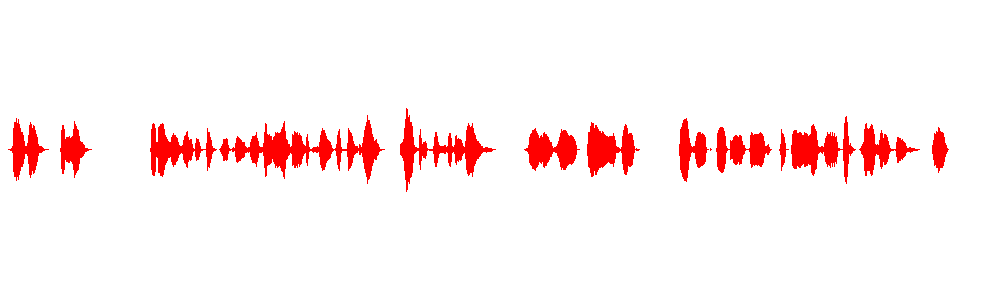
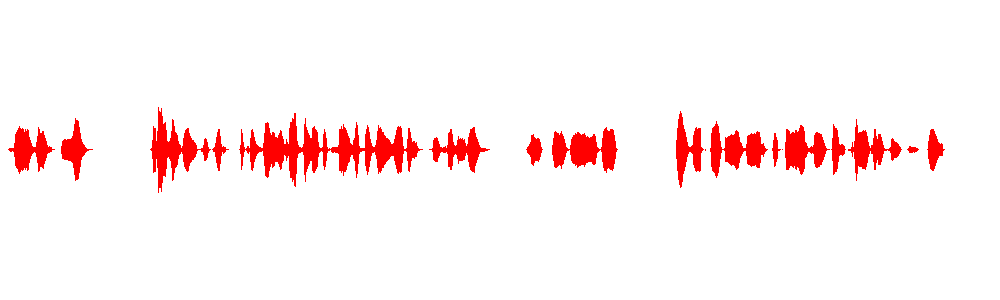
docs: record the GPU verification, evidence taken from the produced media
Adds a "Kiểm chứng trên GPU" section and refreshes `docs/verification/` so all
the evidence comes from the same run as the current commit.

The previous logs were from the parent commit; since the prompts.py fix landed
in between, the three smoke scripts (d5, d7, migration) were re-run on the exact
pushed commit and the frames/waveforms re-extracted from the new MP4. The box
source was shipped with `git archive HEAD`, so what ran is byte-for-byte what
was pushed — not a working copy.

The two PNG frames are pulled straight out of the produced MP4 with ffmpeg: the
frame at 11s shows the testsrc clock reading 11, which is what makes it evidence
that the video stream survived dubbing rather than an illustration of it. The
waveform pair shows the source and dubbed tracks segment-aligned.

RAW LOGS committed alongside so the numbers in the README can be checked
against the source text rather than taken on trust.

Changed region(s): [[0.527, 0.39, 0.961, 0.6], [0.155, 0.36, 0.496, 0.63], [0.0, 0.39, 0.093, 0.6]]

diff --git a/README.md b/README.md
@@ -74,6 +74,26 @@ python -m app.pipelines.dub_pipeline --selftest            # cần ffmpeg
 
 Smoke UI thật (bắt lỗi JS mà test Python không thấy): `python backend/scripts/ui_shot.py --check`
 
+## Kiểm chứng trên GPU (pipeline thật)
+
+CI chạy offline nên **không** chạm tới model. Pipeline thật được kiểm bằng các smoke script
+trên box GPU, chạy đúng mã của commit đã push:
+
+| Script | Nội dung | Kết quả |
+|---|---|---|
+| `scripts/d5_smoke.py` | lồng tiếng vi→en audio 2 người nói: STT + tách người nói → dịch → TTS → timing-fit → ffmpeg; kiểm lại bằng ASR vòng | ✅ 14.3s / nguồn 13.8s, 37 từ en, `p=1.00` |
+| `scripts/d7_smoke.py` | lồng tiếng **video**: MP4 vào → MP4 ra, giữ luồng hình, `background=source_low` | ✅ MP4 320×180 h264 + aac 48k, 13.7s, 37 từ en |
+| `scripts/migration_smoke.py` | DB **hình dạng cũ** → migrate, và `stage_translator()` phải trả `None` chứ không ném lỗi | ✅ 7/7 |
+
+Nhật ký thô: `docs/verification/*.log`. Bằng chứng hình ảnh lấy **trực tiếp từ MP4 đã tạo**
+(`ffmpeg` trích khung hình, không phải ảnh minh hoạ) — khung ở giây thứ 11 hiện đúng đồng hồ
+đếm của `testsrc`, tức luồng video sống sót qua bước lồng tiếng. Ảnh dạng sóng nguồn và bản
+đã lồng tiếng xếp đoạn khớp nhau, cho thấy timing-fit đặt đúng vị trí.
+
+`migration_smoke.py` canh đúng rủi ro mà Giai đoạn 3 mang lại: deployment **đang chạy** có DB
+chưa có bảng `stage_models`/`ai_providers`. Nếu `stage_translator()` ném lỗi ở đó thì cả
+pipeline dubbing chết — nên nó được bọc để rơi về đường cũ, và script này khoá hành vi đó lại.
+
 ## Kiến trúc
 
 ```
